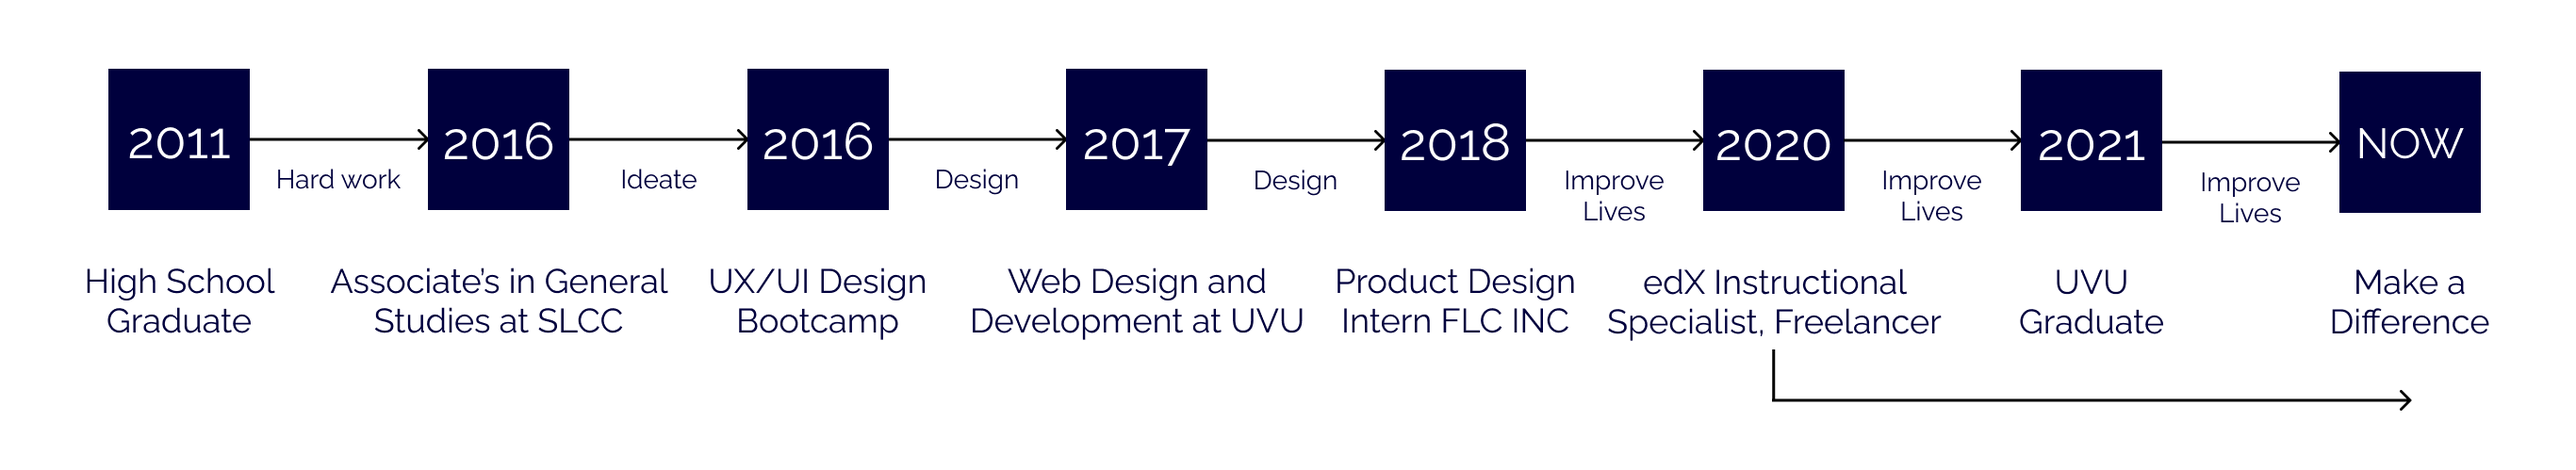
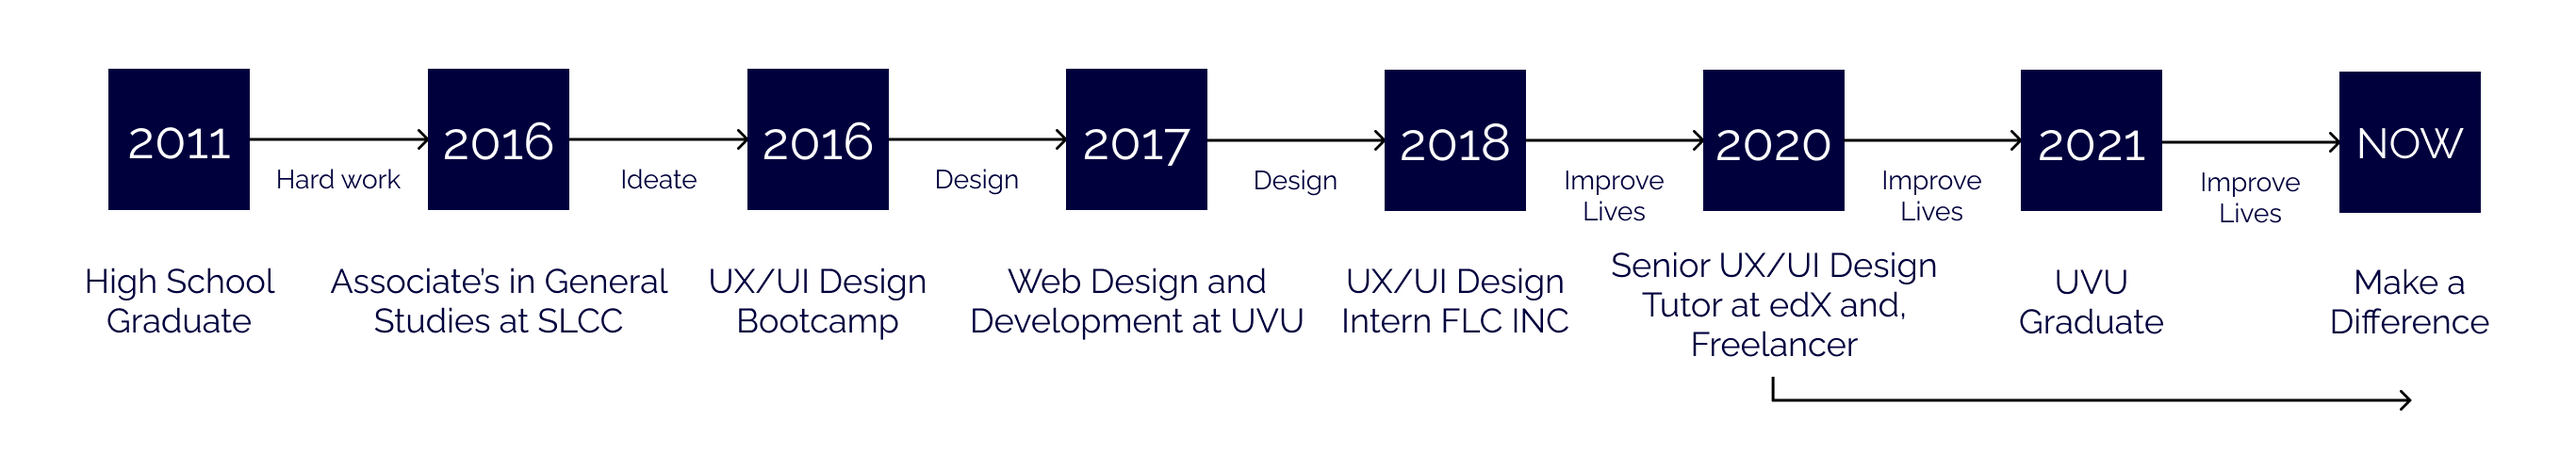
updated about info

Changed region(s): [[0.4976, 0.5411, 0.7464, 0.7816]]

diff --git a/src/Pages/About.js b/src/Pages/About.js
@@ -167,7 +167,7 @@ const About = () => {
    <Box sx={boxStylesAFirst}>
     <Container>
    <Typography sx={headerStylesAFirst}>About Me</Typography>
-   <Typography sx={headerStylesAFirst}>I am a creative Product Designer based in Salt Lake City, Utah, since 2016.</Typography> 
+   <Typography sx={headerStylesAFirst}>I am a creative UX/UI Designer based in Salt Lake City, Utah, since 2016.</Typography> 
 
    </Container>
    <Container>
@@ -190,7 +190,7 @@ const About = () => {
 
     
     <Container>
-    <Typography sx={headerStylesB}>My Product Design Story</Typography>
+    <Typography sx={headerStylesB}>My UX/UI Design Story</Typography>
     </Container>
    
 
